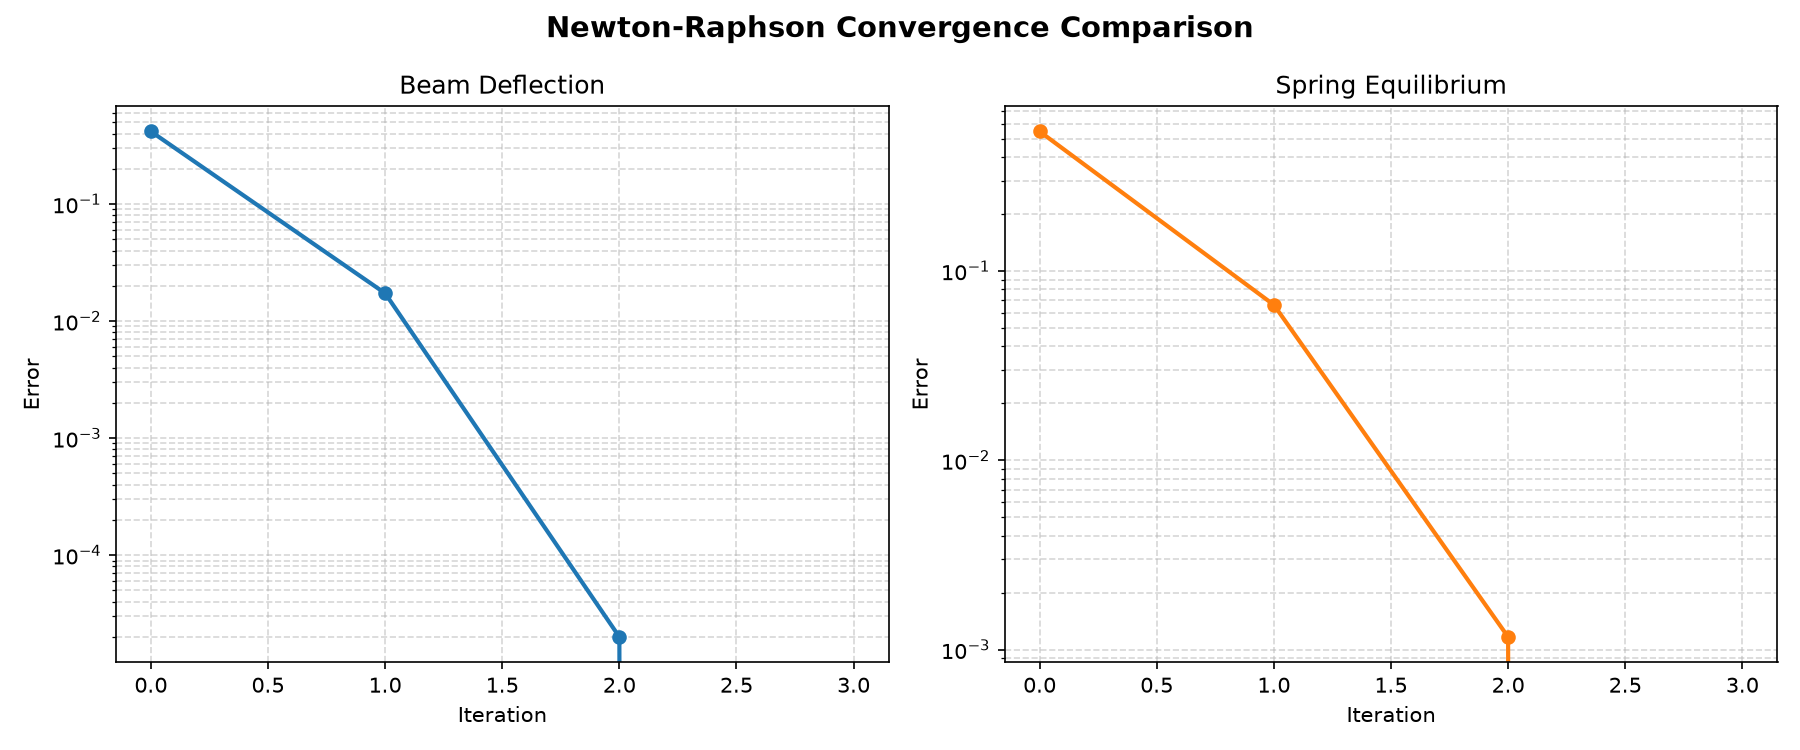
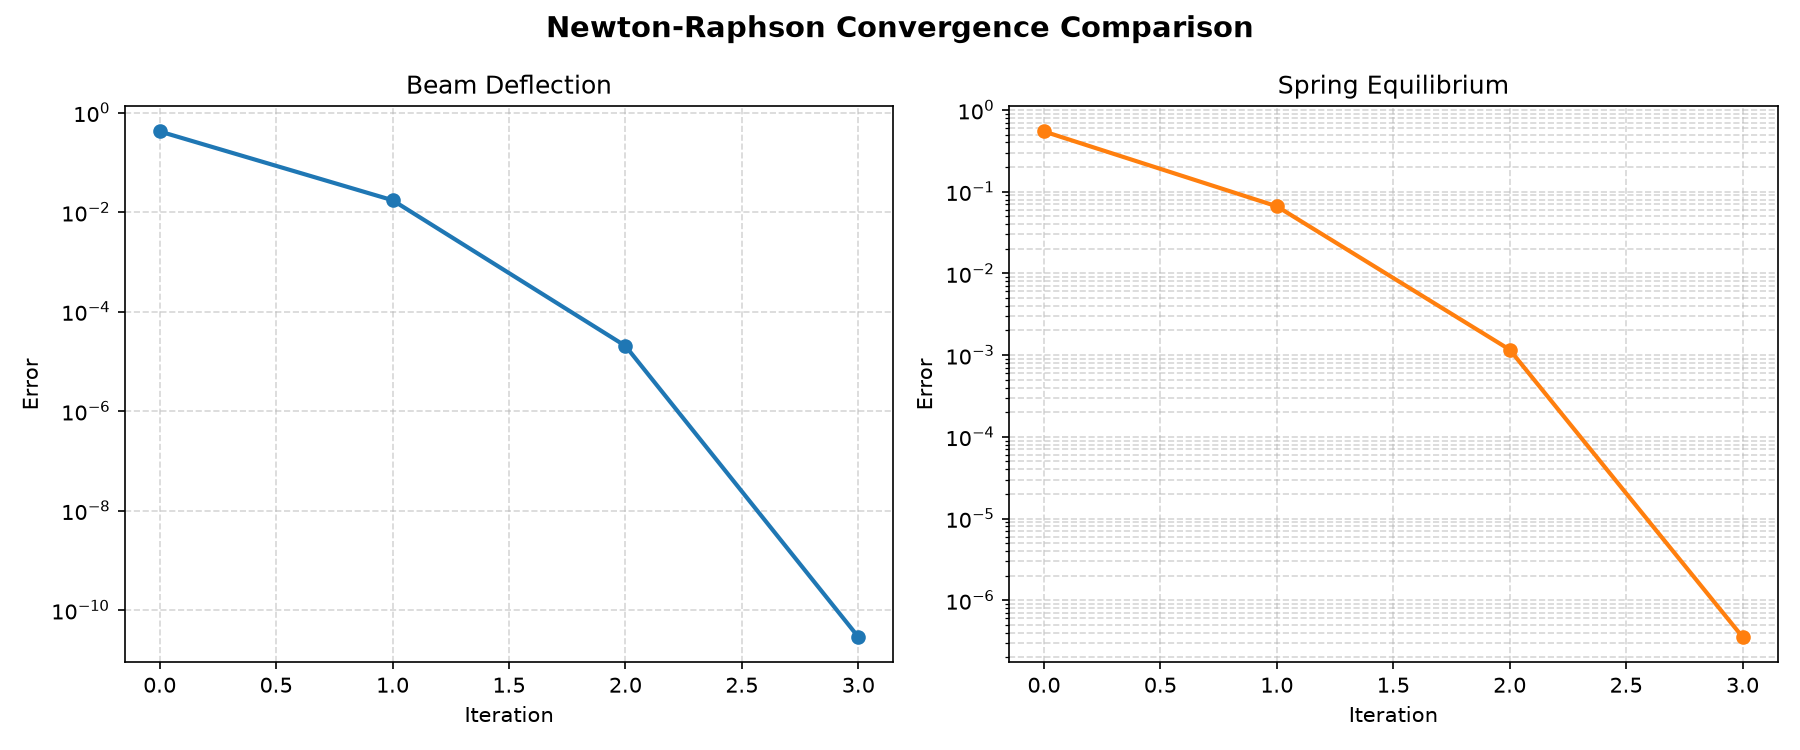
Improved the code Files

diff --git a/src/newton_raphson.py b/src/newton_raphson.py
@@ -15,10 +15,14 @@ These checks are simple to explain: Newton-Raphson can fail in exactly
 these three ways, so we detect each one and report it clearly instead of
 letting the program crash or loop forever.
 
-Each iteration also records an empirical "Order Estimate"
-(log(error_n+1) / log(error_n)), which should trend toward ~2.0 as the
-solver converges -- this is the quadratic convergence Newton-Raphson is
-known for.
+Each iteration also records an empirical "Order Estimate" computed as
+
+    p ≈ log(|e_n| / |e_{n-1}|) / log(|e_{n-1}| / |e_{n-2}|)
+
+where e_n is the step error at iteration n.  This is the standard
+empirical order-of-convergence formula from numerical analysis textbooks.
+For a simple root, Newton-Raphson has quadratic convergence, so this
+estimate should trend toward ~2.0 as the solver converges.
 """
 
 import sympy as sp
@@ -26,6 +30,8 @@ import pandas as pd
 import numpy as np
 
 from utilities import validate_equation
+
+__all__ = ["newton_raphson"]
 
 
 def newton_raphson(equation_str: str, x0: float, tol: float = 1e-6, max_iter: int = 50) -> dict:
@@ -57,6 +63,7 @@ def newton_raphson(equation_str: str, x0: float, tol: float = 1e-6, max_iter: in
     status_msg = "Max iterations reached without convergence."
     seen_points = []
     prev_error = None
+    prev_prev_error = None
 
     if tol <= 0:
         return {
@@ -77,8 +84,15 @@ def newton_raphson(equation_str: str, x0: float, tol: float = 1e-6, max_iter: in
     for n in range(max_iter):
         seen_points.append(x_current)
 
-        fx = float(f(x_current))
-        fpx = float(f_prime(x_current))
+        try:
+            fx = float(f(x_current))
+            fpx = float(f_prime(x_current))
+        except (ValueError, OverflowError, TypeError):
+            status_msg = (
+                f"Stopped: equation evaluation failed at x = {x_current:.5f}. "
+                f"Check that the equation is defined for all values the solver visits."
+            )
+            break
 
         # Check 1: zero derivative -- the tangent line is flat, can't proceed
         if abs(fpx) < 1e-12:
@@ -89,8 +103,11 @@ def newton_raphson(equation_str: str, x0: float, tol: float = 1e-6, max_iter: in
         error = abs(x_next - x_current)
 
         order_estimate = None
-        if prev_error is not None and prev_error > 0 and error > 0:
-            order_estimate = round(np.log(error) / np.log(prev_error), 3)
+        if prev_prev_error is not None and prev_error > 0 and error > 0:
+            order_estimate = round(
+                np.log(error / prev_error) / np.log(prev_error / prev_prev_error),
+                3,
+            )
 
         history.append({
             "Iteration": n,
@@ -102,6 +119,7 @@ def newton_raphson(equation_str: str, x0: float, tol: float = 1e-6, max_iter: in
             "Order Estimate": order_estimate,
             "Raw Error": error,
         })
+        prev_prev_error = prev_error
         prev_error = error
 
         # Check 2: divergence -- the guess is running away to infinity

diff --git a/tests/test_newton_raphson.py b/tests/test_newton_raphson.py
@@ -18,6 +18,14 @@ def test_solver_finds_known_root() -> None:
     assert result["converged"] is True
     assert math.isclose(result["root"], 1.52138, rel_tol=0, abs_tol=1e-5)
 
+    # Order-of-convergence should approach ~2.0 in the final iterations
+    table = result["history"]
+    late_orders = table["Order Estimate"].dropna().iloc[-2:].tolist()
+    for order_val in late_orders:
+        assert 1.0 < order_val < 4.0, (
+            f"Order estimate {order_val} outside reasonable range for quadratic convergence"
+        )
+
 
 def test_zero_derivative_check_stops_cleanly() -> None:
     result = newton_raphson("x**3", x0=0.0)

diff --git a/src/application_beam.py b/src/application_beam.py
@@ -9,7 +9,9 @@ deflection at position x along its span given by:
     delta(x) = P*x*(3*L^2 - 4*x^2) / (48*E*I),   valid for 0 <= x <= L/2
 
 Setting delta(x) - delta_target = 0 and simplifying gives a cubic equation
-in x -- power-rule derivative only.
+in x. A concentrated point load was chosen (instead of a UDL) so the
+resulting equation stays cubic, keeping the application consistent with
+the project's polynomial focus.
 """
 
 import pandas as pd

diff --git a/src/visualization.py b/src/visualization.py
@@ -30,7 +30,7 @@ def plot_convergence(results_dict: dict[str, tuple[float | None, pd.DataFrame, s
 
     for ax, name, color in zip(axes, names, colors):
         _, table, _ = results_dict[name]
-        ax.plot(table["Iteration"], table["Error"], marker="o", color=color, linewidth=2)
+        ax.plot(table["Iteration"], table["Raw Error"], marker="o", color=color, linewidth=2)
         ax.set_title(name)
         ax.set_xlabel("Iteration")
         ax.set_ylabel("Error")

diff --git a/README.md b/README.md
@@ -1,194 +1,89 @@
+```markdown
 # Newton-Raphson Solver for Nonlinear Engineering Problems
 
-## What this project does
-
-Many engineering problems cannot be solved with simple algebra because the equations are **nonlinear**. This project builds a general-purpose **Newton-Raphson solver** in Python that finds the root (solution) of any nonlinear polynomial equation, and applies it to two real engineering problems.
-
-The derivative needed by the Newton-Raphson formula is computed **automatically** using the SymPy library, so no manual calculus is required in the code. Every equation is also validated before solving, so a typo or an unexpected symbol produces a clear error message instead of a raw crash.
-
----
+A general-purpose Newton-Raphson solver in Python that finds roots of nonlinear polynomial equations, applied to two mechanical engineering problems. Derivatives are computed automatically using SymPy.
 
 ## Project Structure
 
-| File | What it does |
-|---|---|
-| `newton_raphson.py` | The core solver. Works for any equation, checks for 3 common failure cases, and estimates the empirical order of convergence at each step. |
-| `application_beam.py` | Application 1 — finds where a beam reaches an allowable deflection. |
-| `application_spring.py` | Application 2 — finds the equilibrium displacement of a nonlinear spring. |
-| `utilities.py` | Helper functions — CSV export, equation validation, comparison table printing. |
-| `visualization.py` | Draws the convergence graphs for both applications (scales automatically to any number of applications). |
-| `main.py` | Runs everything in one go. This is the file you actually execute. |
-| `tests/test_newton_raphson.py` | Pytest checks for the solver's core behavior and all safety checks. |
-| `tests/test_applications.py` | Pytest checks confirming both engineering applications converge correctly. |
+```
+src/
+  newton_raphson.py          # Core solver with 3 failure-mode checks
+  application_beam.py        # App 1: beam deflection position
+  application_spring.py      # App 2: nonlinear spring equilibrium
+  utilities.py               # CSV export, equation validation, comparison table
+  visualization.py           # Convergence graph (log-scale)
+  main.py                    # Entry point — run this file
+tests/
+  test_newton_raphson.py     # 8 tests: correctness, failures, validation, order
+  test_applications.py       # 2 integration tests
+```
 
----
-
-## How to Install
-
-| Step | Command / Action |
-|---|---|
-| 1. Open a terminal in the project folder | — |
-| 2. Install the required packages | `pip install -r requirements.txt` |
-
-`pytest` is only needed for automated testing. The main project still runs with `python src/main.py`.
-
----
-
-## How to Run
-
-Just run one command:
+## Setup and Run
 
 ```bash
+pip install -r requirements.txt
 python src/main.py
 ```
 
-This automatically:
-1. Solves the beam deflection problem
-2. Solves the spring equilibrium problem
-3. Prints the iteration table for each (including error and order-of-convergence estimates)
-4. Saves both tables as CSV files
-5. Prints a side-by-side comparison summary
-6. Generates and saves a convergence graph
+Run tests: `python -m pytest`
 
-| Output | Saved to |
-|---|---|
-| Iteration tables (CSV) | `results/iteration_tables/` |
-| Convergence graph (PNG) | `results/graphs/` |
+## The Solver
 
-The project uses one combined convergence comparison graph:
-
-```text
-results/graphs/convergence_comparison.png
-```
-
-This file contains separate subplots for the beam and spring applications, so both convergence patterns can be compared in one figure.
-
----
-
-## Optional Automated Tests
-
-The project includes a pytest test suite covering both the solver and the engineering applications. These tests are not part of the main program, but they confirm everything is working correctly.
-
-Run all tests with:
-
-```bash
-python -m pytest
-```
-
-**Solver tests (`test_newton_raphson.py`) check that:**
-1. The solver finds the known root of `x**3 - x - 2`, approximately `1.52138`.
-2. The zero-derivative check stops cleanly.
-3. The divergence check stops cleanly.
-4. The cycle/oscillation check stops cleanly.
-5. Invalid settings (`tol <= 0`, `max_iter <= 0`) are rejected with a clear message.
-6. Equations containing unknown symbols (e.g. `x**2 + y`) are rejected by `validate_equation`.
-
-**Application tests (`test_applications.py`) check that:**
-1. The beam deflection application converges and returns a valid, non-empty iteration table.
-2. The spring equilibrium application converges and returns a valid, non-empty iteration table.
-
----
-
-## How the Solver Works
-
-Newton-Raphson finds the root of `f(x) = 0` using this formula, repeated until the answer stops changing:
+Finds `f(x) = 0` using:
 
 $$x_{n+1} = x_n - \frac{f(x_n)}{f'(x_n)}$$
 
-| Setting | Value |
+- **Derivative:** Auto-computed by SymPy (no manual calculus)
+- **Stopping rule:** `|x_{n+1} - x_n| < 10^{-6}`
+- **Order tracking:** Standard empirical formula `p ≈ log(e_n/e_{n-1}) / log(e_{n-1}/e_{n-2})` — should trend toward 2.0
+
+**Three built-in failure checks:**
+
+| Failure | Detection |
 |---|---|
-| Stopping rule | Stop when the change between steps is smaller than `0.000001` |
-| Derivative | Computed automatically by SymPy — no manual calculus |
-| Equation input | Validated first — only the symbol `x` is allowed, and invalid expressions are rejected with a clear error |
-
-**The solver also checks for 3 ways Newton-Raphson can fail**, so it never crashes silently:
-
-| Problem | What the solver does |
-|---|---|
-| The slope is flat (`f'(x) ≈ 0`) | Stops and reports it instead of dividing by zero |
-| The answer runs away to infinity | Stops and reports divergence |
-| The answer gets stuck bouncing between two values | Stops and reports the cycle |
-
-The solver also returns a clear message if the maximum number of iterations is reached before convergence, or if the given `tol`/`max_iter` settings are invalid.
-
-**Order of convergence:** each iteration row also reports an *empirical order estimate*, calculated as `log(error_n+1) / log(error_n)`. Newton-Raphson is theoretically a second-order (quadratic) method, so this value should trend toward **2.0** as the solution converges. In practice, both applications in this project show the order estimate settling into the 2.2–2.6 range within a few iterations, confirming the expected quadratic behavior.
-
----
-
-## Code Quality and Robustness Updates
-
-The final code was improved without changing the main project structure:
-
-1. Type hints were added to function signatures.
-2. `main.py` now handles application errors safely, so one failed application does not stop the other one from running.
-3. The Newton-Raphson solver returns clear status messages for convergence, zero derivative, divergence, oscillation, invalid settings, and maximum iterations.
-4. All equation strings are validated (`utilities.validate_equation`) before being solved, catching typos and disallowed symbols with a readable error instead of a raw SymPy traceback.
-5. Each iteration now records both a rounded error (for display) and a raw, unrounded error (for accurate final-error reporting in the comparison table).
-6. An empirical order-of-convergence estimate is computed and logged at every iteration.
-7. The convergence graph automatically scales its color palette to any number of applications, instead of being hardcoded to exactly two.
-8. Automated tests were expanded to cover invalid solver settings, equation validation, and both engineering applications directly — not just the core solver.
-9. The requirements file was updated to match the imports used by the project.
-
----
+| Flat slope (`f'(x) ≈ 0`) | Stops with clear message |
+| Divergence to infinity | Stops with clear message |
+| Oscillating cycle | Stops with clear message |
 
 ## Application 1: Beam Deflection
 
-A simply supported beam has a **concentrated point load** at its center. We want to know the position `x` along the beam where it reaches a target (allowable) deflection.
+Simply supported beam, concentrated point load at center. Find position `x` where deflection equals a target value.
 
-$$\delta(x) = \frac{P \cdot x \cdot (3L^2 - 4x^2)}{48EI}$$
-
-Setting this equal to the target deflection gives a **cubic equation** — solvable using only the power rule.
-
-> **Note:** a uniformly distributed load (UDL) produces a *quartic* deflection equation, which would require a derivative beyond the power rule alone. A concentrated point load was used instead so the problem stays cubic and consistent with the project's design goal of using only power-rule derivatives, while still representing a genuine, non-trivial engineering scenario.
+$$\delta(x) = \frac{Px(3L^2 - 4x^2)}{48EI}, \quad 0 \le x \le L/2$$
 
 | Parameter | Value |
 |---|---|
-| Beam length (L) | 6.0 m |
-| Point load (P) | 15,000 N |
-| Young's modulus (E) | 200 × 10⁹ Pa (steel) |
-| Moment of inertia (I) | 2 × 10⁻⁵ m⁴ |
-| Target deflection | 0.005 m (5 mm) |
+| L (span) | 6.0 m |
+| P (load) | 15,000 N |
+| E (steel) | 200 × 10⁹ Pa |
+| I | 2 × 10⁻⁵ m⁴ |
+| Target deflection | 0.005 m |
 
----
+## Application 2: Nonlinear Spring Equilibrium
 
-## Application 2: Spring-Mass Equilibrium
-
-A real spring doesn't always stretch in a straight line. This model adds a small **cubic stiffening term** to the usual spring force:
-
-$$F(x) = kx + \beta x^3$$
-
-At equilibrium, this force balances the applied load, giving a **cubic equation** in `x`.
+Cubic stiffening spring model: `F(x) = kx + βx³`. Find equilibrium displacement.
 
 | Parameter | Value |
 |---|---|
-| Linear spring constant (k) | 500 N/m |
-| Nonlinear stiffening term (β) | 50 N/m³ |
+| k (linear) | 500 N/m |
+| β (nonlinear) | 50 N/m³ |
 | Applied force | 2000 N |
-
----
 
 ## Results
 
 | Metric | Beam Deflection | Spring Equilibrium |
 |---|---|---|
-| Equation type | Cubic | Cubic |
-| Initial guess (x₀) | 1.00 m | 2.00 m |
-| Iterations to converge | 4 | 4 |
-| Final root (x*) | 0.60062 m | 2.47814 m |
-| Final error (unrounded) | 2.87 × 10⁻¹¹ | 3.55 × 10⁻⁷ |
-| Physically valid? | Yes (within 0 – 3.0 m span) | Yes (positive displacement) |
+| Iterations | 4 | 4 |
+| Root (x*) | 0.60062 m | 2.47814 m |
+| Final error | 2.87 × 10⁻¹¹ | 3.55 × 10⁻⁷ |
+| Order estimates | 2.12 → 2.00 | 1.92 → 2.00 |
 
-**What this shows:** both problems converge in just 4 iterations, and the error shrinks very fast with each step — this is the "quadratic convergence" that makes Newton-Raphson so much faster than simpler methods like Bisection. The order-of-convergence estimates in both iteration tables trend toward ~2.0, confirming this behavior numerically rather than just by iteration count.
+Both converge in 4 iterations with order estimates confirming quadratic convergence (~2.0). The spring's nonlinear result (2.478 m) differs 38% from the linear prediction (4.0 m), showing the practical significance of the cubic stiffening term.
 
-Interestingly, although both applications converge in the same number of iterations, the beam problem reaches a noticeably smaller final error (2.87 × 10⁻¹¹) than the spring problem (3.55 × 10⁻⁷). Both are comfortably below the tolerance of 1 × 10⁻⁶, but the difference shows that "same iteration count" doesn't always mean "identical convergence quality" — a useful comparison point between the two applications.
-
-For the spring, a purely linear spring (ignoring the cubic term) would predict a displacement of 4.0 m — the real answer of 2.478 m shows how much the nonlinear stiffening term actually matters.
-
----
-
-## Team Members
+## Team
 
 | Name | ID |
 |---|---|
-| [Ghania Jawed] | [62745] |
-| [Samia Shahzad] | [64248] |
+| Ghania Jawed | 62745 |
+| Samia Shahzad | 64248 |
+```